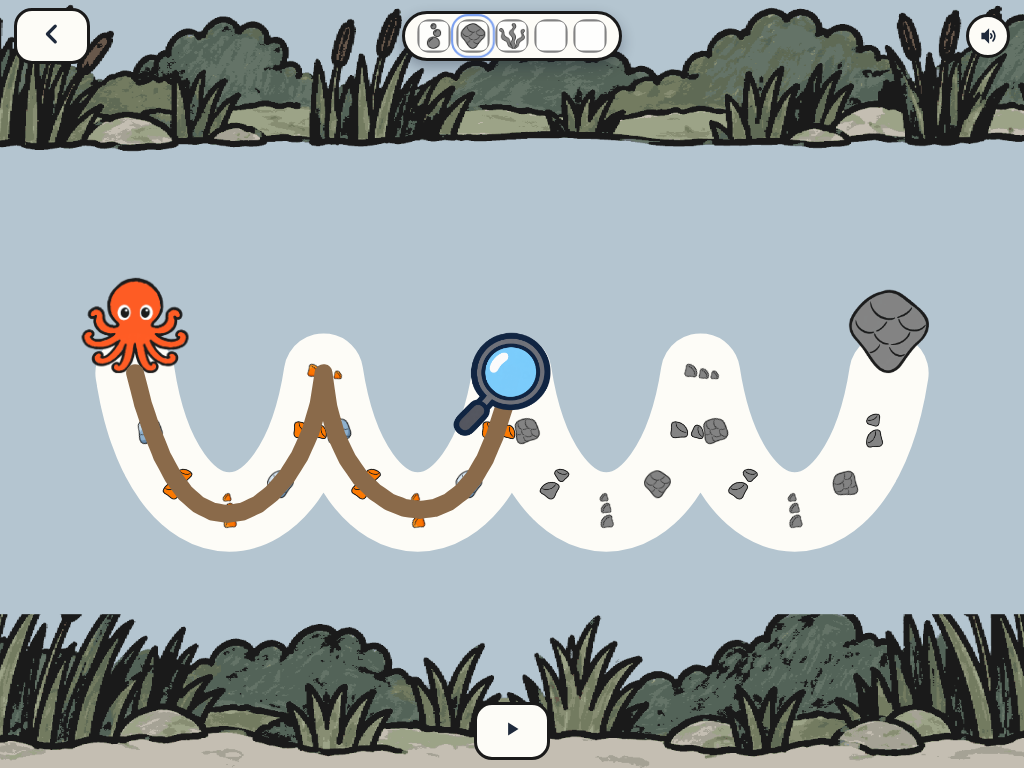
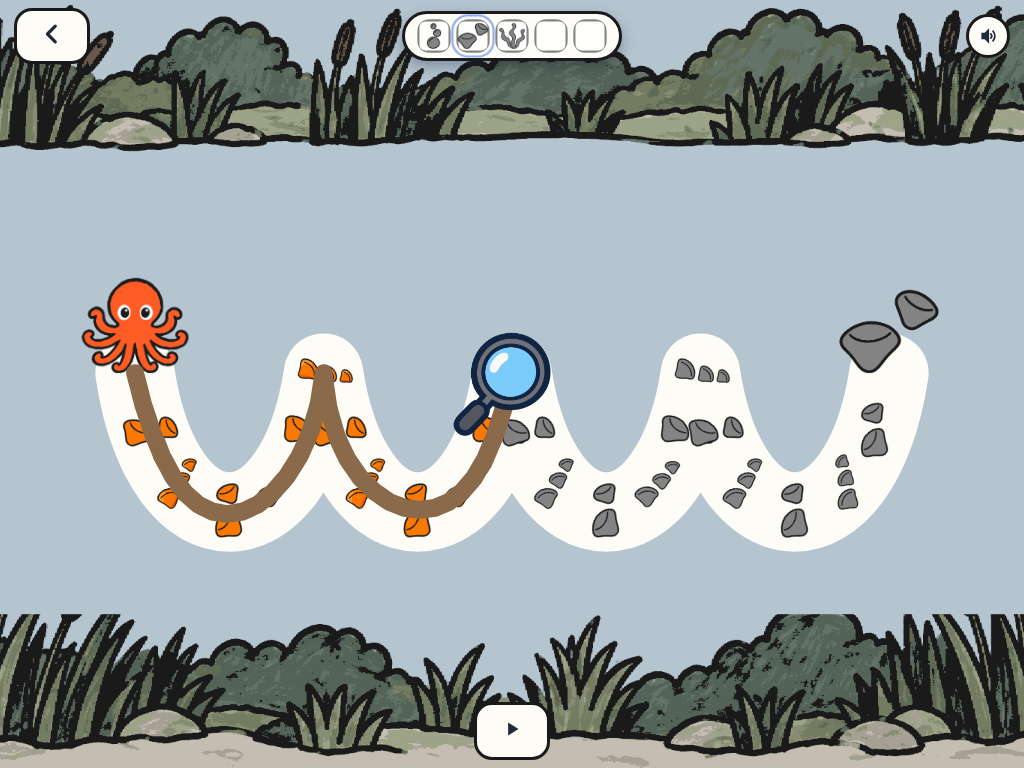
docs(odd): record the T48 follow-up and retake its captures

diff --git a/odd/tasks/prewriting-stage-completion.md b/odd/tasks/prewriting-stage-completion.md
@@ -166,7 +166,7 @@ The T37 full-journey audit was cut off before its report (183 screenshots in `ca
 
 | ID | Task | Branch | Status | Evidence |
 |---|---|---|---|---|
-| T48 | Clues: C9 wool, C10 turtle print, cat fur sample, seaweed (D), fish scales, every " 2"/" 3" variation (sequence `i mod 3` along a trail), leaf/apple variations, stone v2 hazard; drop the placeholders | `feat/art-clues-r2` | done | `1ba3dc0` (pipeline rows) + `3ad9ffb` (wiring) + this row, not merged/pushed. Route: delegated writer. **Pipeline** (`build_art.py`, appended rows): `pista lana.png` → `clue-wool-*` (`'contour'`, `WOOL #f3ead6` measured), `pista huella de tortuga.png` → `clue-turtle-print-*` (`PRINT`, `keep_ink=False`), `pista pelo de gato.png` → `sample-cat-fur.png`, `pista alga.png` replaces `alga.png` in the `clue-seaweed-*` rows (`SEAWEED` re-measured `#5caa47`), `pista escamas de pez.png` replaces `pista escama.png` in `clue-scale-*` (`SCALE` re-measured `#8eb1ce`), 52 variation rows `clue-<kind>-{2,3}-{earned,drained}.png` for the 13 kinds (prints flattened to `PRINT` like their 1, which also turns the author's coloured/outlined print variations black), `sector-leaf-{2,3}`, `sector-apple-{2,3}`, `piedra v2.png` → `sector-stone` (its four speed lines dropped by the largest-blob pass, new `MOTION_LINE_SOURCES`: a hazard swings both ways and is drawn at its hit circle). Every new source 1024x1024 in `AUTHORED_SOURCE_SIZES`; ghost alpha measured: 1-8 band 0.22-0.77%, smooth tail, same bbox at 8/13, so no `GHOST_ALPHA_SOURCES` entry. Old sources (`alga.png`, `pista escama.png`, `piedra.png`, `miga de pan.png`) stay in `art-source/` (`docs/23` §3.1); no shipped file orphaned (bread crumb is still `CLUE_ART.breadcrumb`). **Variations**: `ClueArt.variations` (the " 2"/" 3" pairs) and `clueArtAt(kind, i)` = variation `i mod 3`; `LevelPlay` draws mark `i` of the level (segments included) with it in both states; prints keep their left/right offset; the rail, the deduction and the route's end show variation 1. Leaf/apple: `variationOf(art, i)`; `night2` leaf → leaf 2, `night3` apple → apple 2, `night-rastro` goal → apple 3, `monkey3`'s two leaves → leaf 1 and 2 (`TraceHazards.arts`, per-hazard picture). `PLACEHOLDER_CLUE_ART`/`PLACEHOLDER_SAMPLE_SOURCES` are now empty (guard kept). **Tests**: `artManifest.test.ts` registers every variation + the cat fur (188), wool in the measured-fill list, new rule: each variation's measured fill within 48 per channel of its kind's token (measured spread ≤40), with `OFF_TOKEN_VARIATIONS.scale` naming the known mismatch (and failing if it goes stale); `artHierarchy.test.ts` contour guard over the 27 coloured clue files (all ≥15% contour); `assets.test.ts` sequence tests; LevelPlay (duck trails draw the variation sequence; `monkey3` two leaves), TraceCanvas (`arts`), catalog (night art), cases (real cat fur). Checks: `python3 scripts/art/build_art.py` exit 0 (8m23s; only the expected files changed); `npx vitest run --maxWorkers=2` 114 files / 3529 passed; `npm run build` exit 0; `git diff --check main...HEAD` clean. Captures 1024x768 (Playwright + system chromium, synthesized wobbly strokes, no console errors) in `capturas/2026-10-05-t48/`: before/mid/after for duck-trail1/5/2/6, f2-guirnalda/agua2/buceo, monkey1/2/lianas, night-rastro, sheep-lana, turtle-huellas; night2/night3 before/found; both deductions open; sheep-hill3, llama-peak3, monkey3 hazards; `shipped-art-sheet.png` (every shipped variation on a dark ground: no halos). **Looked bad**: (1) the fish scale's variation 1 came back as a blue-grey patch of skin, not three loose orange scales (its 2/3 are right): on `f2-agua2` it reads as a grey stone drained and nearly vanishes lit, and the trail mixes blue patches with orange scales (`f2-agua2-2-mid`) — redo the 1 (or decide `docs/23` §7.11); (2) the cat fur reads as a flame (`deduction-sheep-1-open`); (3) the turtle-print, webfoot, handprint and hedgehog-print variations are almost the same stamp once flattened to black; (4) the wool tufts are small on the fence posts and the narrow puddle 2 reads smaller than 1/3. |
+| T48 | Clues: C9 wool, C10 turtle print, cat fur sample, seaweed (D), fish scales, every " 2"/" 3" variation (sequence `i mod 3` along a trail), leaf/apple variations, stone v2 hazard; drop the placeholders | `feat/art-clues-r2` | done | `1ba3dc0` (pipeline rows) + `3ad9ffb` (wiring) + this row, not merged/pushed. Route: delegated writer. **Pipeline** (`build_art.py`, appended rows): `pista lana.png` → `clue-wool-*` (`'contour'`, `WOOL #f3ead6` measured), `pista huella de tortuga.png` → `clue-turtle-print-*` (`PRINT`, `keep_ink=False`), `pista pelo de gato.png` → `sample-cat-fur.png`, `pista alga.png` replaces `alga.png` in the `clue-seaweed-*` rows (`SEAWEED` re-measured `#5caa47`), `pista escamas de pez.png` replaces `pista escama.png` in `clue-scale-*` (`SCALE` re-measured `#8eb1ce`), 52 variation rows `clue-<kind>-{2,3}-{earned,drained}.png` for the 13 kinds (prints flattened to `PRINT` like their 1, which also turns the author's coloured/outlined print variations black), `sector-leaf-{2,3}`, `sector-apple-{2,3}`, `piedra v2.png` → `sector-stone` (its four speed lines dropped by the largest-blob pass, new `MOTION_LINE_SOURCES`: a hazard swings both ways and is drawn at its hit circle). Every new source 1024x1024 in `AUTHORED_SOURCE_SIZES`; ghost alpha measured: 1-8 band 0.22-0.77%, smooth tail, same bbox at 8/13, so no `GHOST_ALPHA_SOURCES` entry. Old sources (`alga.png`, `pista escama.png`, `piedra.png`, `miga de pan.png`) stay in `art-source/` (`docs/23` §3.1); no shipped file orphaned (bread crumb is still `CLUE_ART.breadcrumb`). **Variations**: `ClueArt.variations` (the " 2"/" 3" pairs) and `clueArtAt(kind, i)` = variation `i mod 3`; `LevelPlay` draws mark `i` of the level (segments included) with it in both states; prints keep their left/right offset; the rail, the deduction and the route's end show variation 1. Leaf/apple: `variationOf(art, i)`; `night2` leaf → leaf 2, `night3` apple → apple 2, `night-rastro` goal → apple 3, `monkey3`'s two leaves → leaf 1 and 2 (`TraceHazards.arts`, per-hazard picture). `PLACEHOLDER_CLUE_ART`/`PLACEHOLDER_SAMPLE_SOURCES` are now empty (guard kept). **Tests**: `artManifest.test.ts` registers every variation + the cat fur (188), wool in the measured-fill list, new rule: each variation's measured fill within 48 per channel of its kind's token (measured spread ≤40), with `OFF_TOKEN_VARIATIONS.scale` naming the known mismatch (and failing if it goes stale); `artHierarchy.test.ts` contour guard over the 27 coloured clue files (all ≥15% contour); `assets.test.ts` sequence tests; LevelPlay (duck trails draw the variation sequence; `monkey3` two leaves), TraceCanvas (`arts`), catalog (night art), cases (real cat fur). Checks: `python3 scripts/art/build_art.py` exit 0 (8m23s; only the expected files changed); `npx vitest run --maxWorkers=2` 114 files / 3529 passed; `npm run build` exit 0; `git diff --check main...HEAD` clean. Captures 1024x768 (Playwright + system chromium, synthesized wobbly strokes, no console errors) in `capturas/2026-10-05-t48/`: before/mid/after for duck-trail1/5/2/6, f2-guirnalda/agua2/buceo, monkey1/2/lianas, night-rastro, sheep-lana, turtle-huellas; night2/night3 before/found; both deductions open; sheep-hill3, llama-peak3, monkey3 hazards; `shipped-art-sheet.png` (every shipped variation on a dark ground: no halos). **Looked bad** (first pass): the fish scale's variation 1 was a blue-grey skin patch; the cat fur read as a flame; the print variations are nearly the same stamp once black; the wool tufts and scales read as specks. **Follow-up (coordinator)** `6ae2581` + this row: (1) scales use only `docs/23` D3's " 2"/" 3": `clue-scale-*` now from `pista escamas de pez 2.png`, `clue-scale-2-*` from the " 3", the third pair removed, so the trail alternates 2/3 and the route end/rail/deduction show the " 2"; `SCALE` re-measured `#fb7800`, the `OFF_TOKEN_VARIATIONS` exception removed (every variation within 48/channel of its token). (2) Cat fur not shipped: `sample-cat-fur` row removed, `CAT_FUR_SAMPLE_ART` back to the cat silhouette, `PLACEHOLDER_SAMPLE_SOURCES.catFur = 'pista pelo de gato v2.png'`; new `docs/23` D38 (alta, §6 bis): grey-and-white tabby fluff, hairs radiating every way, no orange/yellow, same size/line as the wool, checklist "pelo de gato / pelusa, nunca fuego"; D1 marked rechazado, docs/22 C13 back to pendiente. (3) `ClueArt.markScale` (trail marks only): scale 1.6, wool 1.5 (45 and 42 units, still under each corridor; LevelPlay test). Checks: `python3 scripts/art/build_art.py` exit 0 (8m39s); `npx vitest run --maxWorkers=2` 114 files / 3528 passed; `npm run build` exit 0; `git diff --check main...HEAD` clean. Captures retaken in `capturas/2026-10-05-t48/`: `f2-agua2-{1-before,2-mid,3-after}` (orange 2/3 alternating, readable; drained they read as grey pebbles until lit), `sheep-lana-*` (bigger tufts), `deduction-sheep-1-open` (cat silhouette), `duck-trail1-*` for comparison. Still open: print variations nearly identical; D38 to draw. |
 | T49 | Characters and sheets: monkeys (replaces the MONO placeholder), ducklings, Pulpito with/without magnifier (B18) and poses, bee sheet, sheep v2, hedgehog spines/uncurling, snake skin, left bubble, magnifier v2 and transition magnifier | `feat/art-characters-r2` | in progress | |
 | T50 | Backgrounds v2 (2:1, ten scenes) with the 4:3 safe zone, desk v2, button sheet for the UI chrome | `feat/art-backgrounds-r2` | in progress | |
 
@@ -217,7 +217,7 @@ The T37 full-journey audit was cut off before its report (183 screenshots in `ca
 - 2026-09-27: T41 (batch 6, `feat/inhibition-stops`) done, not yet merged. The starfish stop now appears on seven journey levels (duck, sheep, llama, bee, fish, turtles ×2, monkeys ×2), themed with existing art, hint names the hazard and "esperá que pase". A hazard restarts the run on any level that has one (forgiving walls stay forgiving); the bee keeps its opened flowers and approves from the latch. Dolphins, night, hedgehog and snakes skipped with reasons. See the T41 evidence cell.
 - 2026-10-02: T43 (`feat/clue-art`) done, not yet merged: docs/22 clue art and docs/20 B12 in the game with their authored colours.
 - 2026-10-02: T45 (`feat/new-cases`) done, not yet merged: the sheep (wool on five fence posts, "¿Quién deja lana?") and the turtles (a furrow with three stops, "¿De quién es esta huella?") are recipe-A cases on a new segment-level mechanic (start, stop, lift). C9/C10 art still pending; placeholders swap per docs/22 §5.8.
-- 2026-10-05: T48 (`feat/art-clues-r2`) done, not yet merged: the round-2 clue art (wool, turtle print, cat fur, seaweed, fish scales, every " 2"/" 3" in sequence `i mod 3`, leaf/apple variations, the new rolling stone) is in the game; placeholders gone. The fish scale's variation 1 and the cat fur need a redraw.
+- 2026-10-05: T48 (`feat/art-clues-r2`) done, not yet merged: the round-2 clue art (wool, turtle print, cat fur, seaweed, fish scales, every " 2"/" 3" in sequence `i mod 3`, leaf/apple variations, the new rolling stone) is in the game; placeholders gone. The fish scale's variation 1 is unused (only its " 2"/" 3" ship); the cat fur stays the silhouette until `docs/23` D38 is drawn.
 
 ## Next step
 
